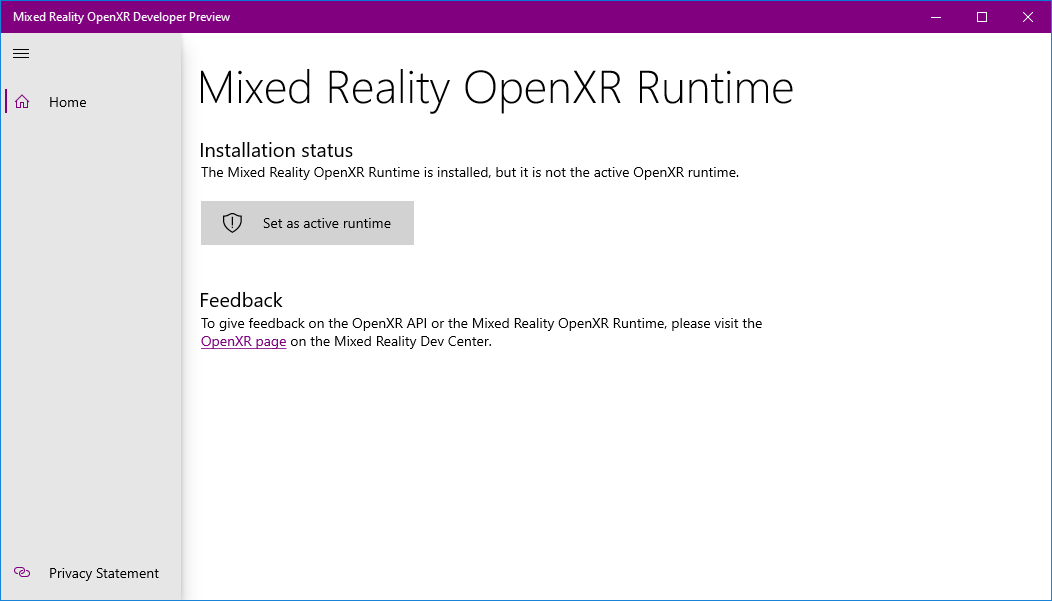
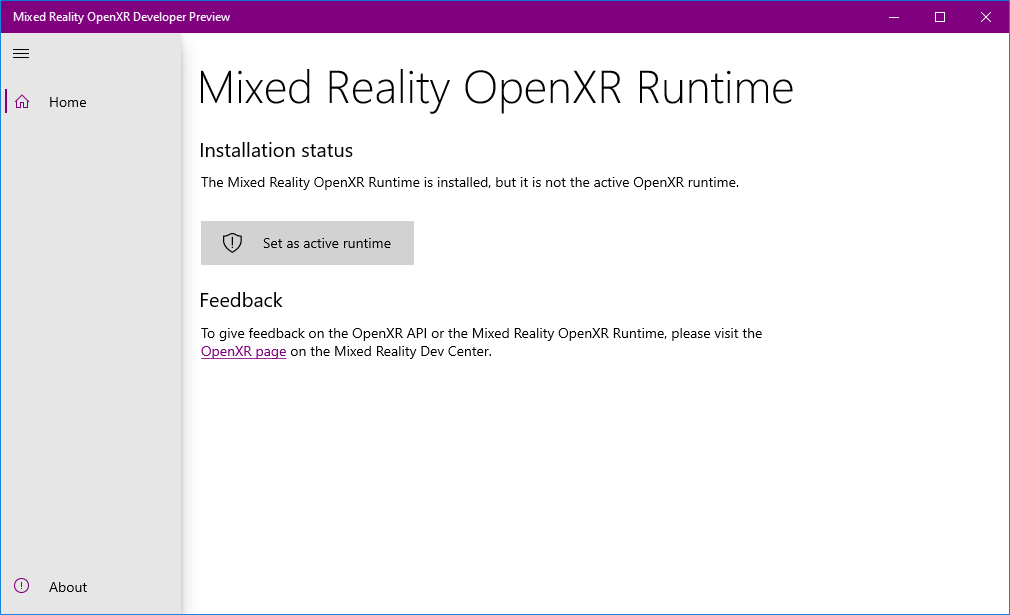
Updated for RS5 dev preview app

diff --git a/mixed-reality-docs/openxr.md b/mixed-reality-docs/openxr.md
@@ -1,11 +1,11 @@
 ---
 title: OpenXR
-description: 
+description: Try out the provisional OpenXR 0.90 API with the Mixed Reality OpenXR Developer Preview. 
 author: thetuvix
 ms.author: alexturn
 ms.date: 3/18/2019
 ms.topic: article
-keywords: 
+keywords: Mixed Reality OpenXR Developer Preview
 ---
 
 
@@ -14,7 +14,7 @@ keywords:
 
 OpenXR is an open royalty-free standard from [Khronos](https://www.khronos.org/) that provides native access to a wide range of devices from many vendors that span across the [mixed reality spectrum](mixed-reality.md).
 
-With OpenXR, you can build applications that target both holographic devices (like HoloLens 2) that place digital content in the real world as if it were really there, as well as immersive devices (like Windows Mixed Reality headsets for desktop PCs) that hide the physical world and replace it with a digital experience.  With OpenXR, you can write code once that is portable across a wide range of hardware platforms.
+With OpenXR, you can build applications that target both holographic devices (like HoloLens 2) that place digital content in the real world as if it were really there, as well as immersive devices (like Windows Mixed Reality headsets for desktop PCs) that hide the physical world and replace it with a digital experience.  OpenXR lets you write code once that's then portable across a wide range of hardware platforms.
 
 The OpenXR standard is currently in a provisional phase, with an initial OpenXR 0.90 spec released for feedback.  For more information on OpenXR, including access to the [provisional 0.90 spec](https://www.khronos.org/registry/OpenXR/specs/0.90/html/xrspec.html) and [headers](https://github.com/KhronosGroup/OpenXR-Docs/tree/master/include/openxr), see the [Khronos OpenXR page](https://www.khronos.org/openxr/).
 
@@ -24,19 +24,18 @@ You can try out the provisional OpenXR 0.90 API today using the Mixed Reality Op
 
 To get started with the Mixed Reality OpenXR Developer Preview:
 
-1. Be sure you are running at least the Windows 10 October 2018 Update.  If you're on an earlier version of Windows 10, you can upgrade to the October 2018 Update using the [Windows 10 Update Assistant](https://www.microsoft.com/en-us/software-download/windows10).
+1. Be sure you are running at least the Windows 10 October 2018 Update.  If you're on an earlier version of Windows 10, you can upgrade to the October 2018 Update using the [Windows 10 Update Assistant](https://www.microsoft.com/en-us/software-download/windows10).  If you're feeling adventurous, you can install a [Windows 10 Insider Preview build](https://insider.windows.com).
 1. Set up a Windows Mixed Reality headset or follow the instructions to [enable the Windows Mixed Reality simulator](using-the-windows-mixed-reality-simulator.md).
-1. If you're running a [Windows 10 Insider Preview build](https://insider.windows.com/) of the next version of Windows, you can use the [Mixed Reality OpenXR Developer Preview app](https://www.microsoft.com/store/productId/9n5cvvl23qbt) to install the Mixed Reality OpenXR Developer Preview.  This app makes it easy to install the OpenXR runtime, keep it up to date, set it as the active runtime, and will soon let you explore other debug information as well.
+1. Install the [Mixed Reality OpenXR Developer Preview app](https://www.microsoft.com/store/productId/9n5cvvl23qbt).  This app gets you set up with the preview OpenXR runtime on Windows 10 October 2018 Update or later.  After installing this app, the Windows Store will keep the runtime up to date.
+1. Run the Mixed Reality OpenXR Developer Preview app from the Start menu and follow the instructions to make the runtime active.  Soon, this app will let you explore other OpenXR debug information as well.
 
 ![Mixed Reality OpenXR Developer Preview app](images/mixed-reality-openxr-developer-preview.png)
 
-> [!NOTE]
-> A version of the Mixed Reality OpenXR Developer Preview app that works on the Windows 10 October 2018 Update is coming later this week!
-
 ## Support for Windows 10 October 2018 Update
+
 To get going with the Mixed Reality OpenXR Developer Preview on the Windows 10 October 2018 Update (the current version of Windows), you'll need to follow a few more steps:
 
-1. Install the OpenXR runtime by installing [this app from the Windows Store](https://www.microsoft.com/store/productId/9p9596djj19r).  This will keep your machine up to date automatically with the latest version.
+1. Follow the steps above to install the Mixed Reality OpenXR Developer Preview.
 1. To set the Mixed Reality OpenXR Developer Preview as your system's active OpenXR runtime, download the [Mixed Reality OpenXR Developer Preview Compatibility Pack](https://aka.ms/openxr-compat) and extract it to a stable location.
 1. From an administrator command prompt, run the following command, replacing `<fully-qualified path to MixedRealityRuntime.json>` with the full path to the MixedRealityRuntime.json file you extracted:
    ```
@@ -44,12 +43,30 @@ To get going with the Mixed Reality OpenXR Developer Preview on the Windows 10 O
    ```
 
 ## Building a test OpenXR app
-Detailed instructions for building just the [hello_xr](https://github.com/KhronosGroup/OpenXR-SDK/tree/master/src/tests/hello_xr) OpenXR test app are coming later this week!  For now, you can follow these [build instructions](https://github.com/KhronosGroup/OpenXR-SDK/blob/master/BUILDING.md), which will build both the test app and the OpenXR headers themselves.
+
+The [hello_xr](https://github.com/KhronosGroup/OpenXR-SDK/tree/master/src/tests/hello_xr) OpenXR test app demonstrates use of various parts of the API.  You can follow these [build instructions](https://github.com/KhronosGroup/OpenXR-SDK/blob/master/BUILDING.md), which will build both the test app and the OpenXR headers themselves.
 
 ## Feedback
+
 To give feedback on the [OpenXR Provisional 0.90 specification](https://www.khronos.org/registry/OpenXR/specs/0.90/html/xrspec.html), please visit the [Khronos OpenXR Forums](https://community.khronos.org/c/openxr), [Slack Channel](https://khr.io/slack) and [Issue Tracker](https://github.com/KhronosGroup/OpenXR-Docs).
 
+## Troubleshooting
+
+Here are some troubleshooting tips for the Mixed Reality OpenXR Developer Preview.  If you're hitting any other problems, please visit the [Khronos OpenXR Forums](https://community.khronos.org/c/openxr) or [Slack Channel](https://khr.io/slack).
+
+### OpenXR app not starting Windows Mixed Reality
+
+If your OpenXR app is not starting Windows Mixed Reality when you run it, the Mixed Reality OpenXR Developer Preview may not be set as the current runtime.  Be sure to run the Mixed Reality OpenXR Developer Preview app and follow the instructions to make the runtime active.
+
+### Mixed Reality OpenXR Developer Preview app cannot be installed 
+
+Be sure you are running at least the Windows 10 October 2018 Update.  If you're on an earlier version of Windows 10, you can upgrade to the October 2018 Update using the [Windows 10 Update Assistant](https://www.microsoft.com/en-us/software-download/windows10).
+
+If the Install button on the Mixed Reality OpenXR Developer Preview app does nothing on Windows 10 October 2018 Update, your system may have cached stale system requirements for the app.  You can run the command `wsreset.exe` from a command prompt to clear the cache.
+
 ## See also
+
 * [More information on OpenXR](https://www.khronos.org/openxr/)
 * [OpenXR Provisional 0.90 specification](https://www.khronos.org/registry/OpenXR/specs/0.90/html/xrspec.html)
+* [OpenXR Provisional 0.90 API reference](https://www.khronos.org/registry/OpenXR/specs/0.90/man/html/)
 * [OpenXR Provisional 0.90 headers](https://github.com/KhronosGroup/OpenXR-Docs/tree/master/include/openxr)
